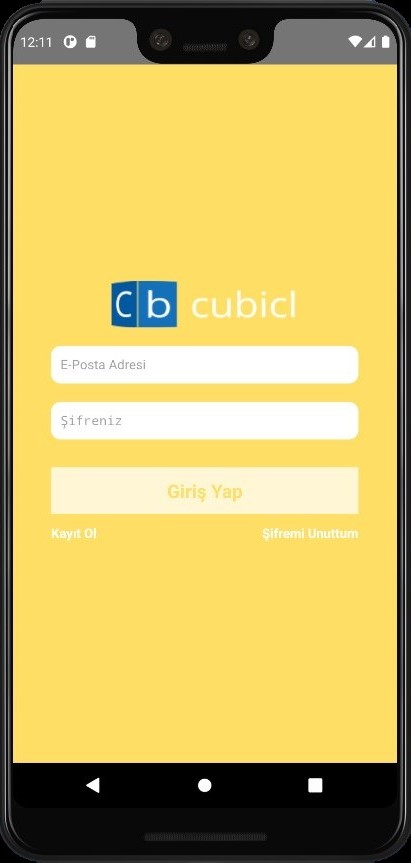
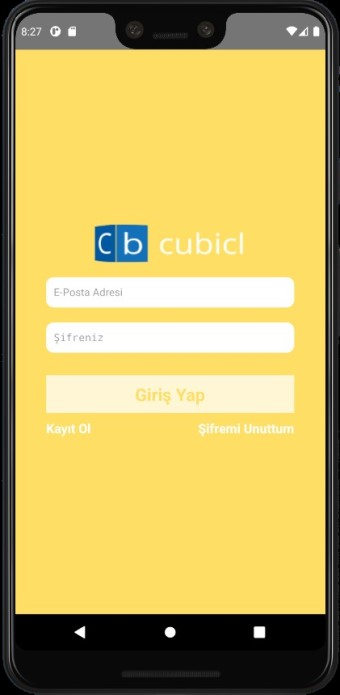
changed text font size and README.md file

diff --git a/App.tsx b/App.tsx
@@ -130,7 +130,7 @@ const styles = StyleSheet.create({
   buttonText: {
     color: '#ffde66',
     fontWeight: 'bold',
-    fontSize: 20,
+    fontSize: 23,
   },
   bottomSection: {
     width: '80%',
@@ -143,6 +143,7 @@ const styles = StyleSheet.create({
   bottomText: {
     color: 'white',
     fontWeight: 'bold',
+    fontSize: 17,
   },
 });
 
